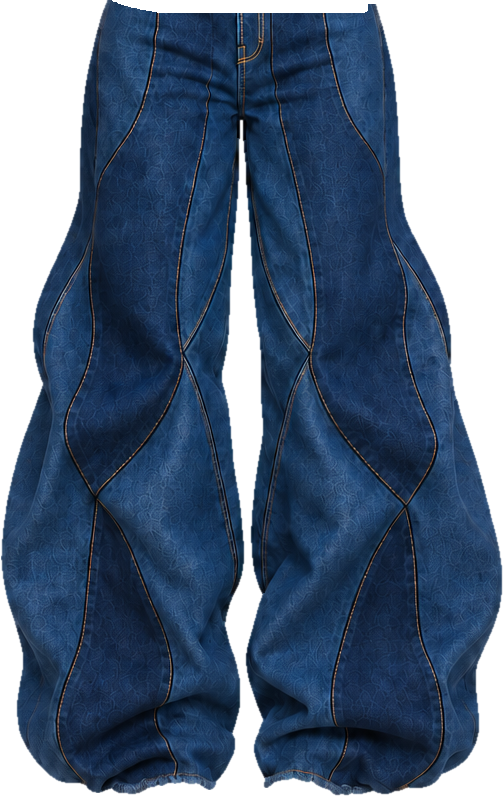
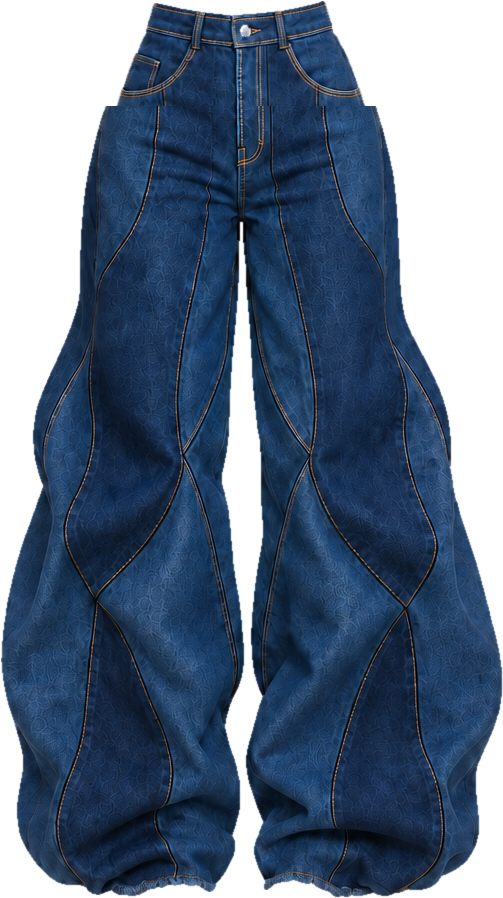
fix(studio): narrow jeans beneath yellow top

diff --git a/tests/production-v2.spec.ts b/tests/production-v2.spec.ts
@@ -44,11 +44,18 @@ test('production assets have soft alpha, clean denim edges, and unchanged pose l
     expect(yellow[(y * 1024 + x + radius + 3) * 4 + 3], `metal rim retained at ${x},${y}`).toBeGreaterThan(240);
   }
   const jeansUnderYellow = await layer('bottom-sculpted-jeans-under-yellow');
-  for (const [x, y] of [[400, 620], [645, 620], [520, 650]]) {
-    expect(jeans[(y * 1024 + x) * 4 + 3], `base jeans exist at ${x},${y}`).toBeGreaterThan(200);
-    expect(jeansUnderYellow[(y * 1024 + x) * 4 + 3], `jeans must stay below the yellow hem at ${x},${y}`).toBe(0);
+  const span = (rgba: Buffer, y: number) => {
+    let left = 1024, right = -1;
+    for (let x = 0; x < 1024; x++) if (rgba[(y * 1024 + x) * 4 + 3] > 32) { left = Math.min(left, x); right = x; }
+    return { left, right, width: right - left + 1 };
+  };
+  for (const y of [620, 640]) {
+    const baseSpan = span(jeans, y), fittedSpan = span(jeansUnderYellow, y), shirtSpan = span(yellow, y);
+    expect(fittedSpan.width, `narrowed waistband at y=${y}`).toBeLessThan(baseSpan.width);
+    expect(fittedSpan.left, `left waistband hidden at y=${y}`).toBeGreaterThanOrEqual(shirtSpan.left);
+    expect(fittedSpan.right, `right waistband hidden at y=${y}`).toBeLessThanOrEqual(shirtSpan.right);
   }
-  expect(jeansUnderYellow[(656 * 1024 + 520) * 4 + 3], 'jeans resume immediately below the yellow hem').toBeGreaterThan(200);
+  expect(jeansUnderYellow.subarray(700 * 1024 * 4, 701 * 1024 * 4).equals(jeans.subarray(700 * 1024 * 4, 701 * 1024 * 4)), 'pants return to full width below the shirt').toBe(true);
 
   const arms = await layer('model-arms');
   let hipSkinOverlay = 0;

diff --git a/src/lib/asset-preloader.ts b/src/lib/asset-preloader.ts
@@ -34,7 +34,7 @@ export const CORE_PRELOAD_AUDIO: string[] = [
 
 let isGlobalPreloaded = false;
 let activePreload: Promise<void> | null = null;
-const PRELOAD_STORAGE_KEY = "tung_tung_preloaded_production_v2_v12_yellow_over_waistband";
+const PRELOAD_STORAGE_KEY = "tung_tung_preloaded_production_v2_v13_narrow_waistband";
 
 export function isAssetsPreloaded(): boolean {
   if (isGlobalPreloaded) return true;

diff --git a/src/lib/studio.ts b/src/lib/studio.ts
@@ -1,5 +1,5 @@
 export const STAGE = { width: 1024, height: 1536 } as const;
-export const STUDIO_ASSET_VERSION = "production-v2-20260909-v12-yellow-over-waistband";
+export const STUDIO_ASSET_VERSION = "production-v2-20260909-v13-narrow-waistband";
 
 export const categories = [
   { id: "tops", label: "Tops" },
